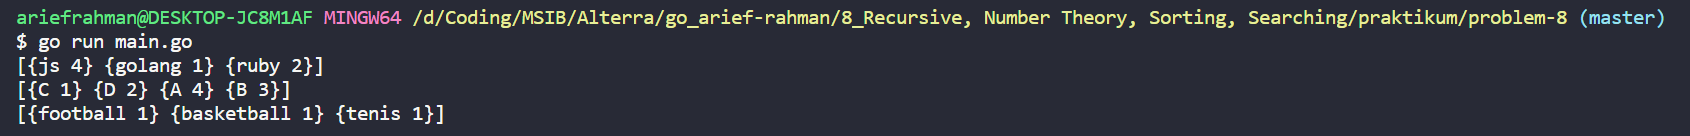
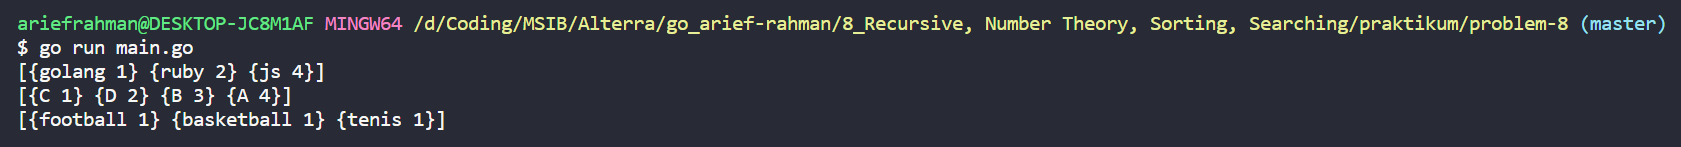
revisi

diff --git a/8_Recursive, Number Theory, Sorting, Searching/praktikum/problem-8/main.go b/8_Recursive, Number Theory, Sorting, Searching/praktikum/problem-8/main.go
@@ -2,11 +2,26 @@ package main
 
 import (
 	"fmt"
+	"sort"
 )
 
 type pair struct {
 	name string
 	count int
+}
+
+type countSorted []pair
+
+func (c countSorted) Len() int {
+	return len(c)
+}
+
+func (c countSorted) Swap(i, j int)  {
+	c[i], c[j] = c[j], c[i]
+}
+
+func (c countSorted) Less(i, j int) bool {
+	return c[i].count < c[j].count
 }
 
 func MostAppearIteam(items []string) []pair{
@@ -26,6 +41,8 @@ func MostAppearIteam(items []string) []pair{
 			})
 		}
 	}
+
+	sort.Sort(countSorted(pairs))
 
 	return pairs
 }
